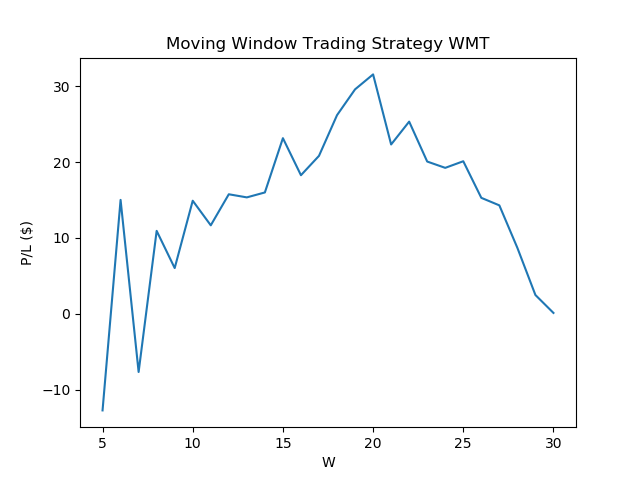
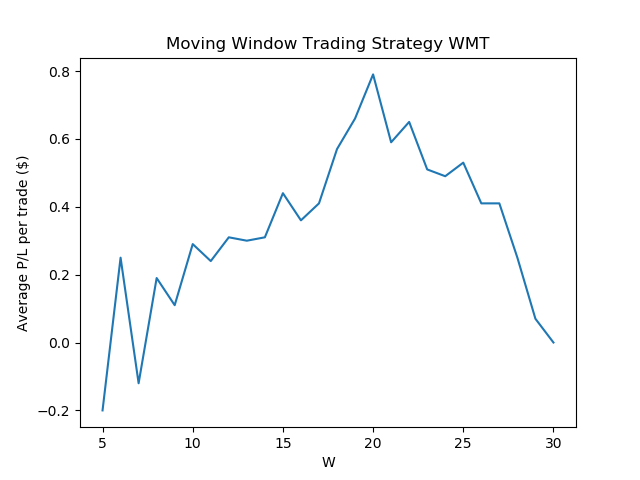
Changes with text

diff --git a/assignment_7_wang_trend_change_question_2_to_6.py b/assignment_7_wang_trend_change_question_2_to_6.py
@@ -3,102 +3,7 @@ import numpy as np
 from scipy.stats import linregress
 from collections import deque
 import matplotlib.pyplot as plt
-
-def trading_strategy_with_stats(trading_df, prediction_label, weekly_balance=100):
-    '''
-    trading_df: dataframe of relevant weekly data
-    prediction_label: the label for which we're going to trade off of
-    returns: A df of trades made based on Predicted Labels. Also gives whether transactions were made along with other stats.
-    '''
-    # The daily balance we will be using
-    total_balance = weekly_balance
-    trading_history = deque()
-    trading_days_index = 0
-    # Boolean indicating whether we have a position or not
-    position = False
-    # The number of shares
-    shares = 0
-    # String indicating what position was taken
-    taken_position = ''
-    while(trading_days_index < len(trading_df.index)):
-        trading_label = trading_df.iloc[trading_days_index][[prediction_label]].values[0]
-        if trading_days_index > 0:
-            previous_trading_label = trading_df.iloc[trading_days_index-1][[prediction_label]].values[0]
-        else:
-            previous_trading_label = None
-        trading_value =  trading_df.iloc[trading_days_index][['Close']].values[0]
-        # If we have money and no position, we immediately take a position based on the day
-        if total_balance != 0 or shares != 0:
-            if not position:
-                # If it's the last day and we have no position, we can't trade. Otherwise we trade
-                if trading_days_index != len(trading_df.index)-1:
-                    position = True
-                    # A buy and hold
-                    if  trading_label == 'GREEN':
-                        # If I have more than $100, I will only trade with $100
-                        if total_balance > 100:
-                            shares = np.divide(100, trading_value)
-                            total_balance = total_balance - 100
-                        # If I have less than 100, I can only trade with as much as I have
-                        else:
-                            shares = np.divide(total_balance, trading_value)
-                            total_balance = 0
-                        taken_position = 'LONG'
-                    # A short
-                    else:
-                        # I can always sell short because I can borrow money
-                        # I essentially need to buy these shares back
-                        shares = np.negative(np.divide(100, trading_value))
-                        # Add 100 dollars of shares short
-                        total_balance = total_balance + 100
-                        taken_position = 'SHORT'
-                else:
-                    taken_position = 'NONE'
-            # Otherwise we have a position
-            else:
-                # If it's the last day and we have a position, we must close out the position
-                if trading_days_index == len(trading_df.index) - 1:
-                    # If I'm long on the last day
-                    if shares > 0:
-                        total_balance = total_balance + np.multiply(shares, trading_value)
-                        taken_position = 'LONG TO SELL'
-                    # If I'm short on the last day
-                    elif shares < 0:
-                        buy_back_shares = np.abs(shares)
-                        total_balance = total_balance - np.multiply(buy_back_shares, trading_value)
-                        taken_position = 'SHORT TO BUY'
-                else:
-                    # If we have previous trading days that are the same, we can keep going
-                    if (trading_label == 'GREEN' and previous_trading_label == 'GREEN') or (trading_label == 'RED' and previous_trading_label == 'RED'):
-                        taken_position = 'NONE'
-                    # We have a short position from yesterday, and we must close it by buying shares back and subtracting from our total
-                    elif trading_label == 'GREEN' and previous_trading_label == 'RED':
-                        buy_back_shares = np.abs(shares)
-                        total_balance = total_balance - np.multiply(buy_back_shares, trading_value)
-                        shares = 0
-                        position = False
-                        taken_position = 'SHORT TO BUY'
-                    # We have a long position from yesterday, and we must close it by selling shares and adding to our total
-                    elif trading_label == 'RED' and previous_trading_label == 'GREEN':
-                        total_balance = total_balance + np.multiply(shares, trading_value)
-                        shares = 0
-                        position = False
-                        taken_position = 'LONG TO SELL'
-
-        # Regardless of whether we made a trade or not, we append the weekly cash and week over
-        trading_history.append([trading_df.iloc[trading_days_index][['Year']].values[0],
-                    trading_df.iloc[trading_days_index][['Week_Number']].values[0],
-                    trading_df.iloc[trading_days_index][['Close']].values[0],
-                    total_balance, taken_position, shares])
-        # If we have no money, then we stop trading
-        trading_days_index = trading_days_index+1
-                
-        
-    trading_hist_df = pd.DataFrame(np.array(trading_history), columns=['Year', 'Week_Number', 'Price', 'Balance', 'Position', 'Shares'])
-    trading_hist_df['Balance'] = np.round(trading_hist_df[['Balance']].astype(float), 2)
-
-    return trading_hist_df
-
+from assignment_7_wang_trend_change_question_1 import get_pnl, trading_strategy_with_stats
 
 def calculate_average_number_of_days_per_trade(df):
     '''
@@ -194,34 +99,6 @@ def question_3(pnl_table):
     print('The number of long positions opened is {}'.format(all_long_positions))
     print('The number of short positions opened is {}'.format(all_short_positions))
 
-def question_4(pnl_table):
-    '''
-    pnl_table: the dataframe our profit and loss
-    return: None
-    '''
-    # Calculate all the rows where we have a LONG to LONG TO SELL
-    # We have to normalize indices to subtract properly
-    long_open = pnl_table.query('Position in ["LONG"]')
-    long_open.reset_index(drop=True, inplace=True)
-    long_to_sell = pnl_table.query('Position in ["LONG TO SELL"]')
-    long_to_sell.reset_index(drop=True, inplace=True)
-
-    shares_bought_vector = pd.DataFrame(np.multiply(long_open[["Shares"]].values.astype(float), long_open[["Price"]].values.astype(float)), columns=['Balance'])
-    # Do the same for short positions
-    short_open = pnl_table.query('Position in ["SHORT"]')
-    short_open.reset_index(drop=True, inplace=True)
-    short_to_buy = pnl_table.query('Position in ["SHORT TO BUY"]')
-    short_to_buy.reset_index(drop=True, inplace=True)
-    # PNL from longs is the total balance we have at the end of a long transaction minus the balance we had in cash after first making that long transaction 
-    # minus the initial seed money to buy shares (sometimes less than 100)
-    
-    pnl_from_long = long_to_sell[['Balance']] - long_open[['Balance']] - shares_bought_vector
-
-    # PNL from short is the balance we have at the end minus the difference between the open balance and our profit from the initial short
-    pnl_from_short = short_to_buy[['Balance']] - (short_open[['Balance']] - 100)
-    print("Average P/L from longs: ${}".format(np.round(pnl_from_long['Balance'].mean(), 2)))
-    print("Average P/L from shorts: ${}".format(np.round(pnl_from_short['Balance'].mean(), 2)))
-
 
 def main():
     ticker='WMT'
@@ -245,7 +122,7 @@ def main():
     print('The R squared value describes the correlation coefficient of a relationship between the day of the year and price. A strong negative correlation indicates a ')
     print('negative price movement over time, and a strong positive correlation indicates a price movement upwards over time. Periods of the stock where there are clear drops shows ')
     print('a negative correlation, but only after a window of time. The R squared movement is lagged due to the moving window effect. However, the movements of the R squared values and prices ')
-    print('can still be observed.')
+    print('can still be observed. There is an average R squared of 0.3 which indicates that the stock trends up with time, as seen by the ticker movement.')
 
     print('\nQuestion 3:')
     # Create some regression prediction tables
@@ -254,7 +131,9 @@ def main():
     question_3(pnl_table)
 
     print('\nQuestion 4:')
-    question_4(pnl_table)
+    pnl_from_long, pnl_from_short = get_pnl(pnl_table)
+    print("Average P/L from longs: ${}".format(np.round(pnl_from_long['Balance'].mean(), 2)))
+    print("Average P/L from shorts: ${}".format(np.round(pnl_from_short['Balance'].mean(), 2)))
 
     print('\nQuestion 5:')
     print('I am including the day that I start the position and the day that I close the position')
@@ -276,7 +155,9 @@ def main():
     question_3(pnl_table_2018)
     print('There were slightly more opened positions in 2018 compared to 2019 (40 to 34), with significantly more short positions in 2018 (25 to 15)')
     print('Comparing to Question 4: ')
-    question_4(pnl_table_2018)
+    pnl_from_long, pnl_from_short = get_pnl(pnl_table)
+    print("Average P/L from longs: ${}".format(np.round(pnl_from_long['Balance'].mean(), 2)))
+    print("Average P/L from shorts: ${}".format(np.round(pnl_from_short['Balance'].mean(), 2)))
     print('Compared to 2019, 2018 saw profits, which means that this model fitted for 2018 works for 2018, but not as well for 2019. This indicates that the window used for 2019 was most likely ')
     print('not optimal. A different window would most likely provide better results.')
     print('Comparing to Question 5: ')

diff --git a/assignment_7_wang_trend_change_question_1.py b/assignment_7_wang_trend_change_question_1.py
@@ -4,11 +4,11 @@ from scipy.stats import linregress
 from collections import deque
 import matplotlib.pyplot as plt
 
-def trading_strategy(trading_df, prediction_label, weekly_balance=100):
+def trading_strategy_with_stats(trading_df, prediction_label, weekly_balance=100):
     '''
     trading_df: dataframe of relevant weekly data
     prediction_label: the label for which we're going to trade off of
-    returns: A df of trades made based on Predicted Labels
+    returns: A df of trades made based on Predicted Labels. Also gives whether transactions were made along with other stats.
     '''
     # The daily balance we will be using
     total_balance = weekly_balance
@@ -18,6 +18,8 @@ def trading_strategy(trading_df, prediction_label, weekly_balance=100):
     position = False
     # The number of shares
     shares = 0
+    # String indicating what position was taken
+    taken_position = ''
     while(trading_days_index < len(trading_df.index)):
         trading_label = trading_df.iloc[trading_days_index][[prediction_label]].values[0]
         if trading_days_index > 0:
@@ -41,6 +43,7 @@ def trading_strategy(trading_df, prediction_label, weekly_balance=100):
                         else:
                             shares = np.divide(total_balance, trading_value)
                             total_balance = 0
+                        taken_position = 'LONG'
                     # A short
                     else:
                         # I can always sell short because I can borrow money
@@ -48,6 +51,9 @@ def trading_strategy(trading_df, prediction_label, weekly_balance=100):
                         shares = np.negative(np.divide(100, trading_value))
                         # Add 100 dollars of shares short
                         total_balance = total_balance + 100
+                        taken_position = 'SHORT'
+                else:
+                    taken_position = 'NONE'
             # Otherwise we have a position
             else:
                 # If it's the last day and we have a position, we must close out the position
@@ -55,37 +61,71 @@ def trading_strategy(trading_df, prediction_label, weekly_balance=100):
                     # If I'm long on the last day
                     if shares > 0:
                         total_balance = total_balance + np.multiply(shares, trading_value)
+                        taken_position = 'LONG TO SELL'
                     # If I'm short on the last day
                     elif shares < 0:
                         buy_back_shares = np.abs(shares)
                         total_balance = total_balance - np.multiply(buy_back_shares, trading_value)
+                        taken_position = 'SHORT TO BUY'
                 else:
-                    # If we have previous trading days that are the same, we can keep going (No code necessary)
+                    # If we have previous trading days that are the same, we can keep going
+                    if (trading_label == 'GREEN' and previous_trading_label == 'GREEN') or (trading_label == 'RED' and previous_trading_label == 'RED'):
+                        taken_position = 'NONE'
                     # We have a short position from yesterday, and we must close it by buying shares back and subtracting from our total
-                    if trading_label == 'GREEN' and previous_trading_label == 'RED':
+                    elif trading_label == 'GREEN' and previous_trading_label == 'RED':
                         buy_back_shares = np.abs(shares)
                         total_balance = total_balance - np.multiply(buy_back_shares, trading_value)
                         shares = 0
                         position = False
+                        taken_position = 'SHORT TO BUY'
                     # We have a long position from yesterday, and we must close it by selling shares and adding to our total
                     elif trading_label == 'RED' and previous_trading_label == 'GREEN':
                         total_balance = total_balance + np.multiply(shares, trading_value)
                         shares = 0
                         position = False
+                        taken_position = 'LONG TO SELL'
 
         # Regardless of whether we made a trade or not, we append the weekly cash and week over
         trading_history.append([trading_df.iloc[trading_days_index][['Year']].values[0],
                     trading_df.iloc[trading_days_index][['Week_Number']].values[0],
-                    total_balance])
+                    trading_df.iloc[trading_days_index][['Close']].values[0],
+                    total_balance, taken_position, shares])
         # If we have no money, then we stop trading
         trading_days_index = trading_days_index+1
                 
         
-    trading_hist_df = pd.DataFrame(np.array(trading_history), columns=['Year', 'Week_Number', 'Balance'])
+    trading_hist_df = pd.DataFrame(np.array(trading_history), columns=['Year', 'Week_Number', 'Price', 'Balance', 'Position', 'Shares'])
     trading_hist_df['Balance'] = np.round(trading_hist_df[['Balance']].astype(float), 2)
 
     return trading_hist_df
 
+
+def get_pnl(pnl_table):
+    '''
+    pnl_table: the dataframe our profit and loss
+    return: a tuple of pnls from short and long
+    '''
+    # Calculate all the rows where we have a LONG to LONG TO SELL
+    # We have to normalize indices to subtract properly
+    long_open = pnl_table.query('Position in ["LONG"]')
+    long_open.reset_index(drop=True, inplace=True)
+    long_to_sell = pnl_table.query('Position in ["LONG TO SELL"]')
+    long_to_sell.reset_index(drop=True, inplace=True)
+
+    shares_bought_vector = pd.DataFrame(np.multiply(long_open[["Shares"]].values.astype(float), long_open[["Price"]].values.astype(float)), columns=['Balance'])
+    # Do the same for short positions
+    short_open = pnl_table.query('Position in ["SHORT"]')
+    short_open.reset_index(drop=True, inplace=True)
+    short_to_buy = pnl_table.query('Position in ["SHORT TO BUY"]')
+    short_to_buy.reset_index(drop=True, inplace=True)
+    # PNL from longs is the total balance we have at the end of a long transaction minus the balance we had in cash after first making that long transaction 
+    # minus the initial seed money to buy shares (sometimes less than 100)
+    
+    pnl_from_long = long_to_sell[['Balance']] - long_open[['Balance']] - shares_bought_vector
+
+    # PNL from short is the balance we have at the end minus the difference between the open balance and our profit from the initial short
+    pnl_from_short = short_to_buy[['Balance']] - (short_open[['Balance']] - 100)
+    return pnl_from_long, pnl_from_short
 
 
 def get_windowed_slice_and_fit(df, W=5):
@@ -143,14 +183,17 @@ def main():
         print('Processing W = {} out of 30'.format(W))
         df_trading_days = pd.DataFrame(df_2018.iloc[W+1: len(df_2018.index)][['Year', 'Week_Number', 'Close']], columns=['Year', 'Week_Number', 'Close']).join(get_windowed_slice_and_fit(df_2018, W))
         df_trading_days.reset_index(drop=True, inplace=True)
-        # this gives the pnl table. We only care about the last day
-        pnl = trading_strategy(df_trading_days, 'Regression Predictions')
-        pnl_deque.append(np.round(np.subtract(pnl.iloc[-1]['Balance'], 100), 2))
+        # This gives the pnl table
+        pnl = trading_strategy_with_stats(df_trading_days, 'Regression Predictions')
+        # Grab the means
+        pnl_long, pnl_short = get_pnl(pnl)
+        total_pnl = pnl_long.append(pnl_short)
+        pnl_deque.append(np.round(total_pnl.mean(), 2))
 
     plt.plot(np.arange(5, 31), np.array(pnl_deque))
     plt.title('Moving Window Trading Strategy WMT')
     plt.xlabel('W')
-    plt.ylabel('P/L ($)')
+    plt.ylabel('Average P/L per trade ($)')
     plt.savefig(fname='Q_1_W_vs_PnL')
     plt.show()
     plt.close()
